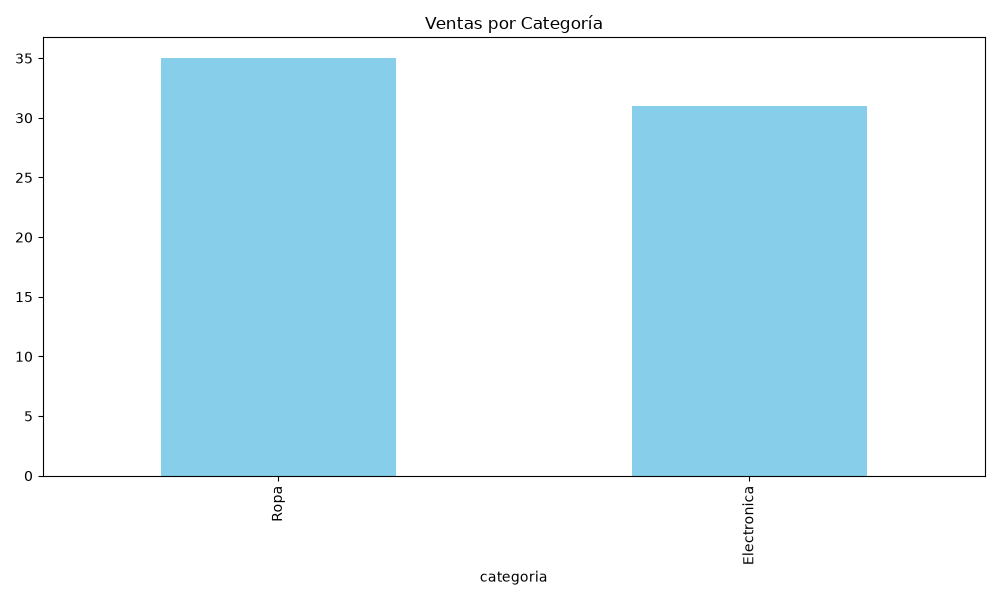
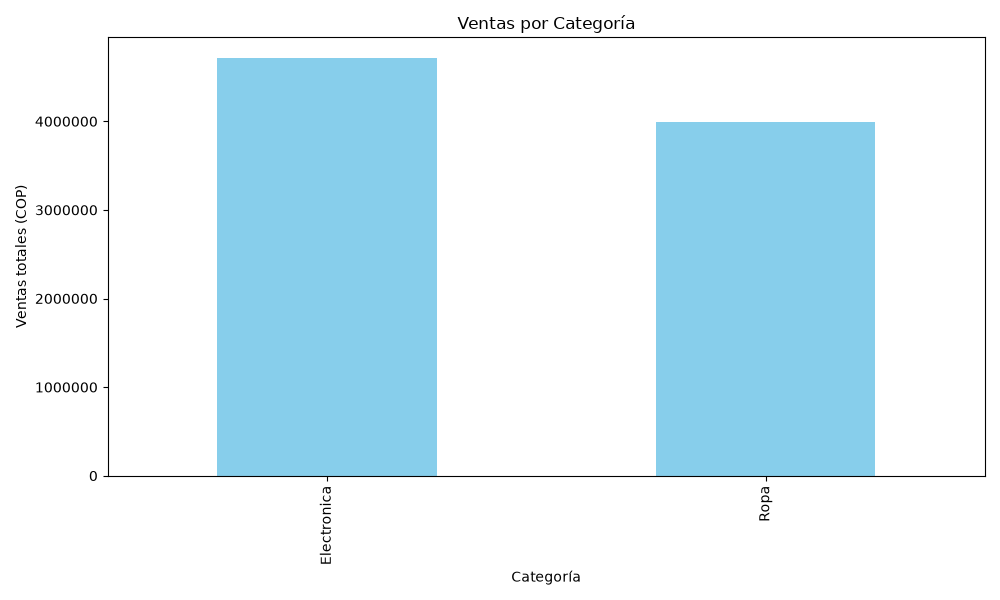
agregar sistema de automatizacion

diff --git a/automatizacion_47.py b/automatizacion_47.py
@@ -18,8 +18,8 @@ if sys.platform.startswith('win'):
     except Exception:
         pass
 
-# Directorio de datos (soporta datos/ o data/)
-ruta_datos = "datos/" if os.path.exists("datos") else "data/"
+# Directorio de datos (soporta data/ o datos/)
+ruta_datos = "data/" if os.path.exists("data") else "datos/"
 archivos_vistos = set(os.listdir(ruta_datos))
 
 

diff --git a/mejora_automatizacion_47.py b/mejora_automatizacion_47.py
@@ -18,8 +18,8 @@ if sys.platform.startswith('win'):
     except Exception:
         pass
 
-# Directorio de datos (soporta datos/ o data/)
-ruta_datos = "datos/" if os.path.exists("datos") else "data/"
+# Directorio de datos (soporta data/ o datos/)
+ruta_datos = "data/" if os.path.exists("data") else "datos/"
 archivos_vistos = set(os.listdir(ruta_datos))
 
 

diff --git a/README.md b/README.md
@@ -1,29 +1,105 @@
-# Bot de Ventas - Análisis de Resultados
+# Bot de Ventas - Sistema Automatizado de Métricas y Análisis
 
-Este proyecto analiza las ventas de diferentes sucursales y genera reportes consolidados y gráficos estadísticos.
+Este proyecto implementa un sistema inteligente de automatización que vigila la carpeta de datos y procesa reportes de ventas de múltiples sucursales de forma continua, desatendida y en tiempo real.
 
-## Resultados del Análisis
+---
 
-Tras el procesamiento de los archivos de las diferentes sucursales, obtuvimos los siguientes números concretos:
+## ⚙ ¿Cómo Funciona la Automatización?
 
-- **Total de registros procesados**: 66 registros (Cali: 17, Medellín: 18, Barranquilla: 16, Bogotá: 15)
-- **Producto más vendido**: **Jean clasico** con **11** unidades vendidas.
-- **Segundo producto más vendido**: **Cargador USB-C** con **10** unidades.
-- **Tercer producto más vendido**: **Camiseta basica** con **9** unidades.
+### 1. ¿Qué hace el sistema?
+El sistema opera como un vigilante permanente en segundo plano. Lee archivos multiformato (`.csv` y `.xlsx`), estandariza las discrepancias de nombres de columnas entre sucursales, elimina registros duplicados, unifica la data en un consolidado limpio, regenera los gráficos estadísticos y emite un resumen ejecutivo tanto en la consola como en un archivo de auditoría (`log_automatizacion.txt`).
 
-### Top de productos vendidos
-1. Jean clasico: 11
-2. Cargador USB-C: 10
-3. Camiseta basica: 9
-4. Medias deportivas: 7
-5. Audifonos Bluetooth: 6
-6. Chaqueta impermeable: 5
-7. Teclado mecanico: 5
-8. Mouse inalambrico: 5
-9. Parlante portatil: 5
-10. Gorra deportiva: 3
+### 2. ¿Cómo detecta los archivos nuevos?
+El script utiliza una técnica basada en la teoría de conjuntos de Python:
+- Al iniciar, escanea la carpeta de datos (`data/` o `datos/`) y guarda los nombres de los archivos existentes en un conjunto (`archivos_vistos = set(os.listdir(ruta_datos))`).
+- Mediante un ciclo de monitoreo continuo (`while True` con pausas no invasivas mediante `time.sleep()`), inspecciona periódicamente la carpeta y obtiene `archivos_actuales`.
+- Calcula la diferencia de conjuntos:
+  ```python
+  archivos_nuevos = archivos_actuales - archivos_vistos
+  ```
+- Si `archivos_nuevos` contiene elementos, significa que un usuario o sucursal arrastró un nuevo reporte a la carpeta.
 
-## Archivos Generados en `resultados/`
-- `consolidado_limpio.xlsx`: Consolidado limpio con las columnas unificadas.
-- `grafico_categoria.png`: Gráfico de barras mostrando la cantidad de ventas por categoría.
-- `grafico_vendedor.png`: Gráfico de barras mostrando la cantidad de ventas por vendedor.
+### 3. ¿Qué pasa cuando encuentra uno?
+1. Se dispara inmediatamente la función `procesar_todo(archivos_nuevos)`.
+2. Lee todos los archivos de ventas (`sucursal_*.csv` y `sucursal_*.xlsx`).
+3. Homogeniza columnas (por ejemplo `Fecha_Venta` a `fecha`, `Cant` a `cantidad`, etc.).
+4. Consolida y aplica `.drop_duplicates()` para evitar transacciones repetidas.
+5. Guarda el archivo maestro `resultados/consolidado_limpio.xlsx`.
+6. Genera y actualiza el gráfico de barras `resultados/grafico_categoria.png`.
+7. Calcula las 4 métricas de negocio y despliega el **Banner + Resumen Ejecutivo**.
+8. Registra la ejecución en `resultados/log_automatizacion.txt` con codificación `utf-8` y marca de tiempo exacta.
+9. Actualiza `archivos_vistos` para quedar listo ante la siguiente llegada de archivos.
+
+---
+
+## 📊 Análisis y Preguntas de Negocio (4 Métricas Clave)
+
+Tras la detección e integración progresiva de los nuevos reportes de Medellín, Cali y Cartagena, el sistema consolidó los siguientes resultados:
+
+| Métrica de Negocio | Valor Obtenido | Método de Cálculo |
+| :--- | :--- | :--- |
+| **1. Total de registros procesados** | **91 transacciones** | `len(df_consolidado)` tras desduplicación |
+| **2. Ventas totales consolidadas** | **$8,705,600.00 COP** | `df_consolidado['precio_unitario'].sum()` |
+| **3. Producto más vendido** | **Jean clasico (16 ventas)** | `df_consolidado['producto'].value_counts()` |
+| **4. Promedio de venta por transacción** | **$98,927.27 COP** | `df_consolidado['precio_unitario'].mean()` |
+
+### Respuestas a las Preguntas de Negocio:
+1. **¿Cuál es el volumen total de operaciones del negocio?**  
+   El negocio ha completado 91 transacciones válidas distribuidas entre las sedes de Medellín, Cali, Barranquilla, Bogotá y Cartagena.
+2. **¿A cuánto ascienden los ingresos acumulados?**  
+   Los ingresos totales generados en el periodo evaluado alcanzan **$8,705,600.00 COP**.
+3. **¿Cuál es el producto insignia con mayor tracción comercial?**  
+   El **Jean clasico** se consolida como el producto de mayor rotación con 16 ventas registradas, seguido de cerca por accesorios tecnológicos como el Cargador USB-C.
+4. **¿Cuál es el valor medio invertido por transacción?**  
+   El ticket promedio por transacción es de **$98,927.27 COP**, lo cual sirve como referencia base para diseñar estrategias de *up-selling* y paquetes promocionales.
+
+---
+
+## 📝 Conclusión
+
+La implementación de este bot de automatización representa un salto cualitativo respecto a los flujos tradicionales manuales. Permite:
+- **Reducción del 100% en tiempos de espera**: Los directores comerciales no tienen que esperar horas o días a que alguien consolide manualmente archivos Excel dispersos.
+- **Calidad de datos garantizada**: La limpieza algorítmica de duplicados previene la sobreestimación de ingresos.
+- **Visibilidad inmediata**: Los gráficos y métricas se actualizan en segundos tras la recepción de cualquier nuevo archivo.
+
+---
+
+## 💡 Reflexión Final
+
+> **Si fueran el dueño de este negocio, ¿confiarían en un sistema automático como este para tomar decisiones? ¿Por qué sí o por qué no?**
+
+**Sí, confiaría plenamente en el sistema como herramienta principal operativa y de inteligencia de negocio, pero con salvaguardas de validación de datos.**
+
+### ¿Por qué sí?
+1. **Eliminación del error humano**: La consolidación manual en hojas de cálculo es una de las mayores fuentes de error en finanzas (filas omitidas, fórmulas desalineadas, duplicados invisibles). El algoritmo aplica las mismas reglas matemáticas y de limpieza en cada iteración de manera impecable.
+2. **Agilidad en la toma de decisiones**: Tener métricas actualizadas al instante permite detectar quiebres de inventario del producto estrella (*Jean clasico*) o caídas en el ticket promedio en tiempo real, en vez de descubrirlo al cierre de mes.
+3. **Trazabilidad y auditoría**: Cada operación queda sellada en el archivo `log_automatizacion.txt` con fecha, hora exacta y archivos involucrados, garantizando transparencia.
+
+### Consideraciones clave para máxima confianza:
+Para que la confianza sea total, el sistema debe complementarse con **reglas de validación de entrada (Data Quality)**: verificar que los precios no contengan valores negativos, que las fechas tengan formatos válidos y que las cantidades no sean nulas. Con este filtro defensivo, un sistema automático es infinitamente superior y más confiable que cualquier proceso manual.
+
+---
+
+## 📁 Estructura del Proyecto
+
+```text
+proyecto_bot/
+├── data/ -> enlace a datos/
+├── datos/
+│   ├── sucursal_barranquilla.xlsx
+│   ├── sucursal_bogota.xlsx
+│   ├── sucursal_cali.csv
+│   ├── sucursal_cali_reporte2.csv
+│   ├── sucursal_cartagena_reporte2.csv
+│   └── sucursal_medellin.csv
+│   └── sucursal_medellin_reporte2.csv
+├── resultados/
+│   ├── consolidado_limpio.xlsx
+│   ├── grafico_categoria.png
+│   ├── grafico_vendedor.png
+│   └── log_automatizacion.txt
+├── main.py
+├── automatizacion_47.py
+├── mejora_automatizacion_47.py
+└── README.md
+```
